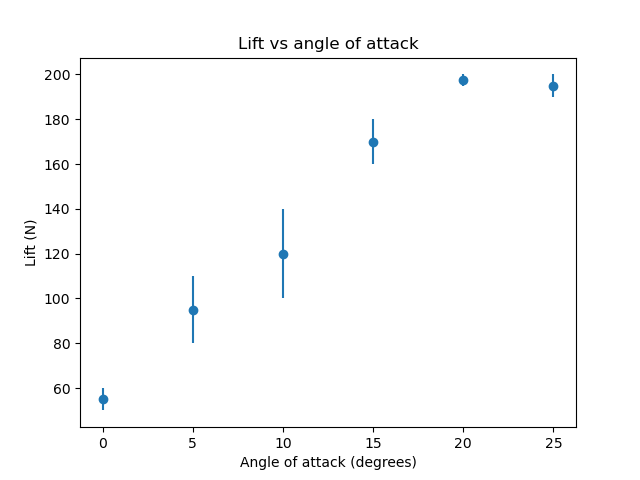
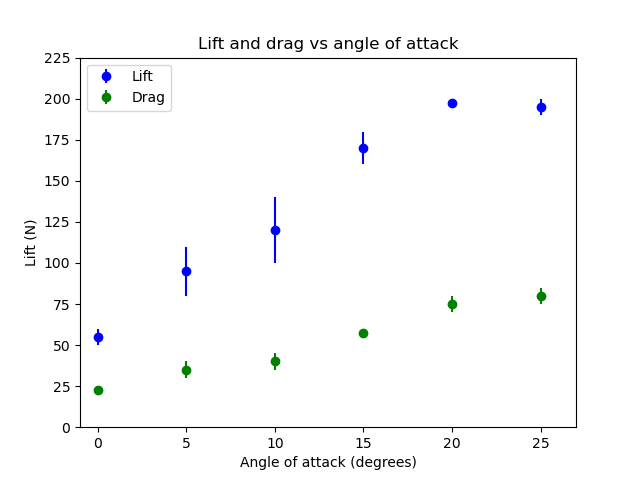
Incorporated the drag data and corrected the plot design

diff --git a/windtunnel/data_analysis.py b/windtunnel/data_analysis.py
@@ -1,45 +1,69 @@
 import matplotlib.pyplot as plt
 from lmfit import models
 
-# Data for plotting
+# Data for plotting for the lift and drag measurements
 angles = [0, 5, 10, 15, 20, 25]
 lift_low = [50, 80, 100, 160, 195, 190]
 lift_high = [60, 110, 140, 180, 200, 200]
+drag_low = [20, 30, 35, 55, 70, 75]
+drag_high = [25, 40, 45, 60, 80, 85]
 
 lift_central = []
 lift_error = []
-for low, high in zip(lift_low, lift_high):
-    lift_central.append((low + high) / 2)
-    lift_error.append((high - low) / 2)
+drag_central = []
+drag_error = []
+for l_low, l_high, d_low, d_high in zip(lift_low, lift_high, drag_low, drag_high):
+    lift_central.append((l_low + l_high) / 2)
+    lift_error.append((l_high - l_low) / 2)
+    drag_central.append((d_low + d_high) / 2)
+    drag_error.append((d_high - d_low) / 2)
 
-# Plotting
-plt.errorbar(angles, lift_central, yerr=lift_error, fmt="o")
+# Plotting the measurements
+plt.errorbar(angles, lift_central, yerr=lift_error, fmt="bo", label="Lift")
+plt.errorbar(angles, drag_central, yerr=drag_error, fmt="go", label="Drag")
 plt.xlabel("Angle of attack (degrees)")
 plt.ylabel("Lift (N)")
-plt.title("Lift vs angle of attack")
+plt.xlim(-1, 27)
+plt.ylim(0, 225)
+plt.legend()
+plt.title("Lift and drag vs angle of attack")
 plt.savefig("measurements.png")
 plt.show()
 
 
-# Model
+# model applied to the data
 def function_lift(angle, a, b):
     return a * angle + b
 
 
-# gewichten en error
-N_inv_err = [1 / item for item in lift_error]
+L_inv_err = [1 / item for item in lift_error]
+D_inv_err = [1 / item for item in drag_error]
 
-ons_model = models.Model(function_lift)
-parameters = ons_model.make_params(a=0, b=0)
-result = ons_model.fit(lift_central, angle=angles, params=parameters, weights=N_inv_err)
+lift_model = models.Model(function_lift)
+lift_parameters = lift_model.make_params(a=0, b=0)
+lift_result = lift_model.fit(
+    lift_central, angle=angles, params=lift_parameters, weights=L_inv_err
+)
 
-print(result.fit_report())
+drag_model = models.Model(function_lift)
+drag_parameters = drag_model.make_params(a=0, b=0)
+drag_result = drag_model.fit(
+    drag_central, angle=angles, params=drag_parameters, weights=D_inv_err
+)
+
+print("Lift fit results:" + lift_result.fit_report())
+print("Drag fit results:" + drag_result.fit_report())
 
 # Plotting
-plt.errorbar(angles, lift_central, yerr=lift_error, fmt="o")
-plt.plot(angles, result.best_fit)
+plt.errorbar(angles, lift_central, yerr=lift_error, fmt="bo")
+plt.plot(angles, lift_result.best_fit, label="Lift fit")
+plt.errorbar(angles, drag_central, yerr=drag_error, fmt="go")
+plt.plot(angles, drag_result.best_fit, label="Drag fit")
 plt.xlabel("Angle of attack (degrees)")
 plt.ylabel("Lift (N)")
-plt.title("Lift vs angle of attack")
+plt.xlim(-1, 27)
+plt.ylim(0, 225)
+plt.legend()
+plt.title("Lift and drag vs angle of attack with fit")
 plt.savefig("measurements_fit.png")
 plt.show()
